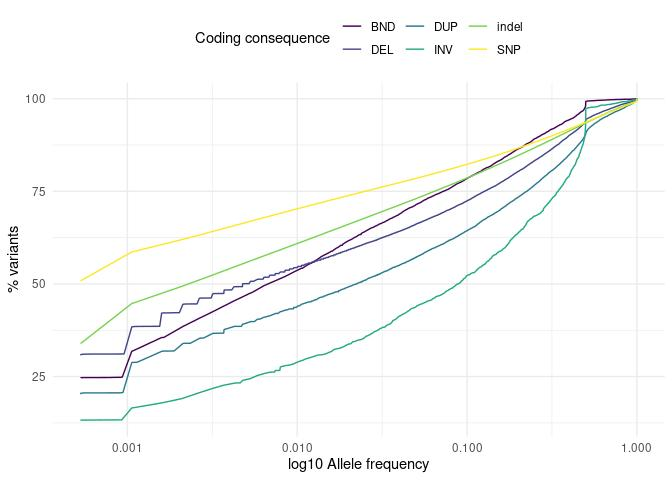
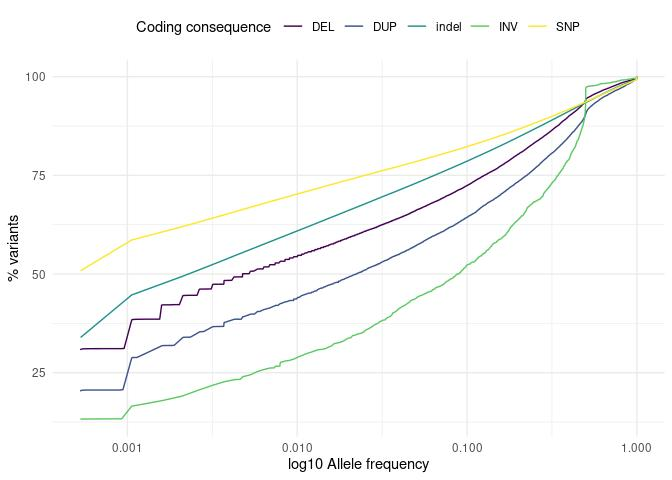
modifications in variants_af

diff --git a/variants_af/variants_af.md b/variants_af/variants_af.md
@@ -103,15 +103,12 @@ individuals
 | VARIANT\_CLASS | AF       | HIGH |   LOW | MODERATE | MODIFIER |
 |:---------------|:---------|-----:|------:|---------:|---------:|
 | deletion       | &gt;0.5% |  500 |  1090 |      680 |  1697005 |
-| indel          | &gt;0.5% |    0 |     2 |        2 |     4929 |
 | insertion      | &gt;0.5% |  327 |  1280 |      630 |  1934758 |
 | SNV            | &gt;0.5% | 1446 | 45903 |    39096 | 15294308 |
 | deletion       | 0.1-0.5% |  813 |   582 |      859 |   885811 |
-| indel          | 0.1-0.5% |    0 |     1 |        1 |    10935 |
 | insertion      | 0.1-0.5% |  407 |   648 |      573 |  1010671 |
 | SNV            | 0.1-0.5% | 1723 | 32131 |    41239 |  9509163 |
 | deletion       | &lt;0.1% | 2662 |   978 |     1731 |  1423061 |
-| indel          | &lt;0.1% |    1 |     1 |        4 |     8770 |
 | insertion      | &lt;0.1% | 1252 |   800 |     1015 |  1102882 |
 | SNV            | &lt;0.1% | 5109 | 69962 |   103413 | 19741686 |
 
